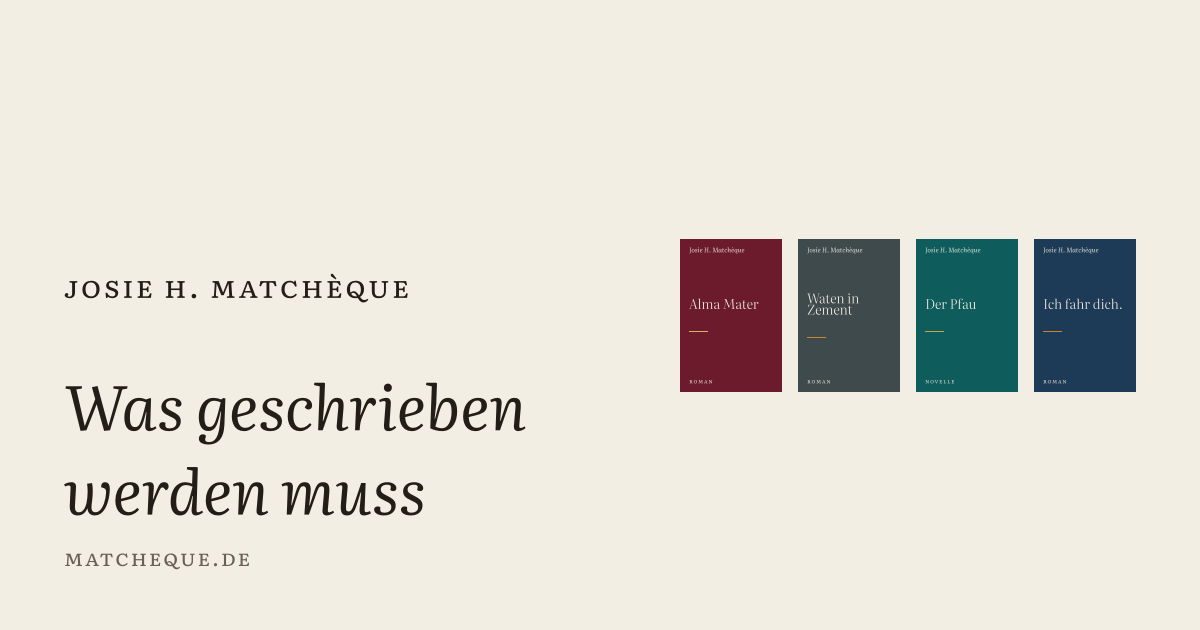
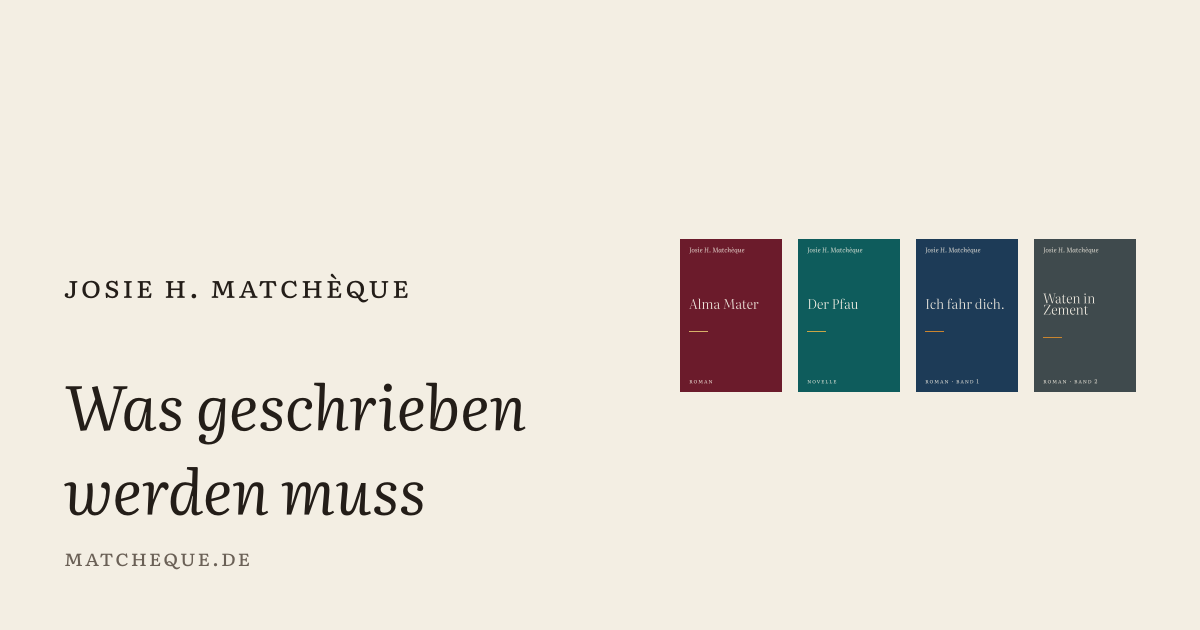
Show Waten in Zement as the sequel; fix the phone layout
- Waten in Zement now follows Ich fahr dich. directly; both carry
  "Band 1" / "Band 2" on their title pages and a series line on the
  homepage, in the book list, on the agents page and in the facts.
- Quote gallery on phones: arrows only, counter on one line, pause
  below; the gallery height follows the current quote instead of the
  longest one.
- Phones: book list stacks the title page above the text, homepage
  sentences no longer take a full screen each.
- render-assets only replaces the downloads after a successful run.

Changed region(s): [[0.6475, 0.3619, 0.9558, 0.6333]]

diff --git a/src/assets/css/site.css b/src/assets/css/site.css
@@ -198,6 +198,9 @@ a:hover { text-decoration-color: currentColor; }
   padding-block: 4rem;
 }
 .incipit-figur { margin: 0; }
+.incipit-reihe { margin: 0 0 1.2rem; font-variant-caps: all-small-caps; letter-spacing: 0.08em; font-size: 1.1rem; color: var(--buch); }
+.incipit-reihe a { text-decoration-color: color-mix(in srgb, var(--buch) 45%, transparent); }
+.incipit-reihe cite { font-variant-caps: normal; letter-spacing: 0; }
 .incipit-satz { margin: 0; font-weight: 300; line-height: 1.14; letter-spacing: -0.01em; }
 .incipit-satz p, .incipit-satz > span { margin: 0; display: block; hyphens: manual; -webkit-hyphens: manual; }
 .incipit-satz--kurz { font-size: clamp(2.2rem, 1.1rem + 4.4vw, 5rem); max-width: 15em; }
@@ -229,12 +232,14 @@ a:hover { text-decoration-color: currentColor; }
 .zitat-quelle a { text-decoration: underline; text-decoration-color: color-mix(in srgb, var(--buch, currentColor) 50%, transparent); text-underline-offset: 0.25em; }
 .zitat-quelle a:hover { text-decoration-color: var(--buch, currentColor); }
 
-/* Mit JavaScript: alle Zitate liegen übereinander (die Höhe richtet sich nach dem längsten, nichts springt),
-   eines ist sichtbar. Beim Wechsel blendet das alte nach oben aus und das neue von unten ein. */
-.zitate.bereit .zitate-liste { gap: 0; align-items: center; }
-.zitate.bereit .zitate-liste > li { grid-area: 1 / 1; opacity: 0; visibility: hidden; transform: translateY(1rem); transition: opacity 0.7s ease, transform 0.7s ease, visibility 0s linear 0.7s; }
+/* Mit JavaScript: ein Zitat ist sichtbar, die anderen liegen unsichtbar darüber.
+   Die Höhe des Bereichs folgt dem aktuellen Zitat und gleitet beim Wechsel mit (gesetzt per Skript),
+   damit kurze Zitate nicht in einem riesigen Leerraum stehen.
+   Beim Wechsel blendet das alte nach oben aus und das neue von unten ein. */
+.zitate.bereit .zitate-liste { display: block; position: relative; transition: height 0.6s ease; }
+.zitate.bereit .zitate-liste > li { position: absolute; inset: 0 0 auto 0; opacity: 0; visibility: hidden; transform: translateY(1rem); transition: opacity 0.7s ease, transform 0.7s ease, visibility 0s linear 0.7s; }
 .zitate.bereit .zitate-liste > li.weg { transform: translateY(-1rem); }
-.zitate.bereit .zitate-liste > li.aktiv { opacity: 1; visibility: visible; transform: none; transition: opacity 0.9s ease 0.35s, transform 0.9s ease 0.35s, visibility 0s; }
+.zitate.bereit .zitate-liste > li.aktiv { position: relative; opacity: 1; visibility: visible; transform: none; transition: opacity 0.9s ease 0.35s, transform 0.9s ease 0.35s, visibility 0s; }
 
 /* Zeitleiste: füllt sich bis zum nächsten Zitat, steht still beim Anhalten oder mit der Maus darüber. */
 .zitate-uhr { display: none; position: relative; height: 1px; width: min(14rem, 60%); margin: 2rem auto 0; background: var(--linie); overflow: hidden; }
@@ -244,14 +249,22 @@ a:hover { text-decoration-color: currentColor; }
 .zitate.laeuft.wartet .zitate-uhr::after { animation-play-state: paused; }
 @keyframes zitat-uhr { to { transform: scaleX(1); } }
 
-.zitate-steuerung { display: none; justify-content: center; align-items: center; gap: 1rem; margin-top: 1rem; font-size: 1.05rem; color: var(--bleistift); }
+.zitate-steuerung { display: none; justify-content: center; align-items: center; flex-wrap: wrap; gap: 0.2rem 1.6rem; margin-top: 1rem; font-size: 1.05rem; color: var(--bleistift); }
 .zitate.bereit .zitate-steuerung { display: flex; }
-.zitate-steuerung button { font: inherit; color: inherit; letter-spacing: inherit; font-variant-caps: inherit; background: none; border: 0; padding: 0.4rem 0.5rem; cursor: pointer; text-decoration: underline; text-decoration-color: transparent; text-underline-offset: 0.25em; }
+.zitate-blaettern { display: flex; align-items: center; gap: 0.4rem; white-space: nowrap; }
+.zitate-steuerung button { font: inherit; color: inherit; letter-spacing: inherit; font-variant-caps: inherit; background: none; border: 0; padding: 0.5rem 0.6rem; min-height: 2.75rem; cursor: pointer; white-space: nowrap; text-decoration: underline; text-decoration-color: transparent; text-underline-offset: 0.25em; }
 .zitate-steuerung button:hover { color: var(--tinte); text-decoration-color: currentColor; }
-.zitate-zaehler { font-variant-numeric: oldstyle-nums tabular-nums; min-width: 4.5em; }
+.zitate-zaehler { font-variant-numeric: oldstyle-nums tabular-nums; min-width: 5.5em; text-align: center; white-space: nowrap; }
+/* Auf dem Handy: nur die Pfeile, groß genug zum Tippen; „anhalten“ in eigener Zeile */
+@media (max-width: 40em) {
+  .zitate-wort { display: none; }
+  .zitate-blaettern button { font-size: 1.6rem; line-height: 1; padding: 0.3rem 1rem; min-width: 2.75rem; }
+  .zitate-steuerung { flex-direction: column; gap: 0; }
+  .zitate-pause { font-size: 0.95rem; min-height: 2.25rem; padding-block: 0.2rem; }
+}
 
 @media (prefers-reduced-motion: reduce) {
-  .zitate.bereit .zitate-liste > li, .zitate.bereit .zitate-liste > li.aktiv { transition: none; transform: none; }
+  .zitate.bereit .zitate-liste, .zitate.bereit .zitate-liste > li, .zitate.bereit .zitate-liste > li.aktiv { transition: none; transform: none; }
 }
 
 /* Vorstellung */
@@ -415,6 +428,8 @@ section + section > .abschnitt-titel, .buch-text > section + section .abschnitt-
 .werk-titel a:hover { text-decoration: underline; text-decoration-color: var(--buch); }
 .werk-untertitel { margin: 0.4rem 0 0; font-style: italic; color: var(--bleistift); }
 .werk-angaben { margin: 0.8rem 0 0; font-size: 1rem; color: var(--bleistift); }
+.werk-reihe { margin: 0.5rem 0 0; font-size: 1rem; color: var(--buch); font-variant-caps: all-small-caps; letter-spacing: 0.07em; }
+.werk-reihe cite { font-variant-caps: normal; letter-spacing: 0; }
 .werk-logline { margin: 1rem 0 0; max-width: 34em; }
 .werk-links { list-style: none; margin: 1rem 0 0; padding: 0; display: flex; flex-wrap: wrap; gap: 0.4rem 1.5rem; font-size: 1.1rem; }
 .werk-links a { text-decoration: none; color: var(--buch); }
@@ -433,7 +448,7 @@ section + section > .abschnitt-titel, .buch-text > section + section .abschnitt-
 .druck-autorin { display: none; }
 .leseprobe-titel { font-size: clamp(2.6rem, 1.4rem + 4.5vw, 4.4rem); font-weight: 300; line-height: 1.02; letter-spacing: -0.015em; }
 .leseprobe-untertitel { margin: 0.6rem 0 0; font-style: italic; font-size: var(--gross); color: var(--bleistift); }
-.leseprobe-angabe { margin: 1.2rem 0 0; font-size: 1.05rem; color: var(--bleistift); }
+.leseprobe-angabe { margin: 1.2rem 0 0; font-size: 1.05rem; color: var(--bleistift); text-wrap: balance; }
 .leseprobe-kopf .motto { margin: 2.5rem auto 0; }
 .leseprobe-inhalt { margin: 2.5rem auto 0; padding-top: 1.2rem; border-top: 3px double var(--linie); font-size: 1.05rem; max-width: 26rem; text-align: left; }
 .leseprobe-inhalt ol { margin: 0; padding-left: 2em; display: grid; gap: 0.25rem; color: var(--bleistift); list-style: upper-roman; }
@@ -476,6 +491,8 @@ section + section > .abschnitt-titel, .buch-text > section + section .abschnitt-
 .tabelle tbody th a { text-decoration: none; }
 .tabelle tbody th a:hover { text-decoration: underline; }
 .tabelle .zahl { text-align: right; }
+.tabelle-reihe { display: block; margin-top: 0.2rem; font-style: normal; font-size: 0.72em; color: var(--bleistift); font-variant-caps: all-small-caps; letter-spacing: 0.06em; }
+.tabelle-reihe cite { font-variant-caps: normal; letter-spacing: 0; font-style: italic; }
 .angeboten, .frei { font-variant-caps: all-small-caps; letter-spacing: 0.07em; color: var(--siegel); font-style: normal; font-size: 0.75em; margin-left: 0.4em; white-space: nowrap; }
 .frei { color: #2c6a3f; }
 
@@ -555,3 +572,13 @@ section + section > .abschnitt-titel, .buch-text > section + section .abschnitt-
 }
 
 abbr[title] { text-decoration: none; cursor: help; }
+
+/* ---------- Feinschliff fürs Handy ---------- */
+@media (max-width: 40em) {
+  /* Erste Sätze: kein ganzer Bildschirm pro Satz, sonst stehen kurze Sätze in großer Leere */
+  .incipit { min-height: 0; padding-block: 3rem; }
+  /* Werkverzeichnis: Titelblatt klein über dem Text statt daneben */
+  .werk { grid-template-columns: 1fr; gap: 1.2rem; padding-block: 2.2rem; }
+  .werk-bild { width: 6rem; }
+  .werk-titel::before { display: block; margin: 0 0 0.2rem; }
+}

diff --git a/src/assets/js/zitate.js b/src/assets/js/zitate.js
@@ -42,6 +42,11 @@ for (const bereich of document.querySelectorAll("[data-zitate]")) {
   let stelle = -1;
   let angehalten = ruhig;
 
+  const liste = bereich.querySelector(".zitate-liste");
+  // Höhe des Bereichs an das aktuelle Zitat anpassen (gleitet per CSS-Übergang)
+  const hoeheAnpassen = () => (liste.style.height = `${reihenfolge[stelle].offsetHeight}px`);
+  addEventListener("resize", hoeheAnpassen);
+
   function zeigen(neu) {
     const vorher = reihenfolge[stelle];
     stelle = (neu + reihenfolge.length) % reihenfolge.length;
@@ -51,6 +56,7 @@ for (const bereich of document.querySelectorAll("[data-zitate]")) {
       e.classList.toggle("weg", e === vorher && e !== jetzt);
       e.setAttribute("aria-hidden", String(e !== jetzt));
     }
+    hoeheAnpassen();
     zaehler.textContent = `${stelle + 1} von ${reihenfolge.length}`;
     // Zeitleiste neu starten
     bereich.classList.remove("laeuft");
